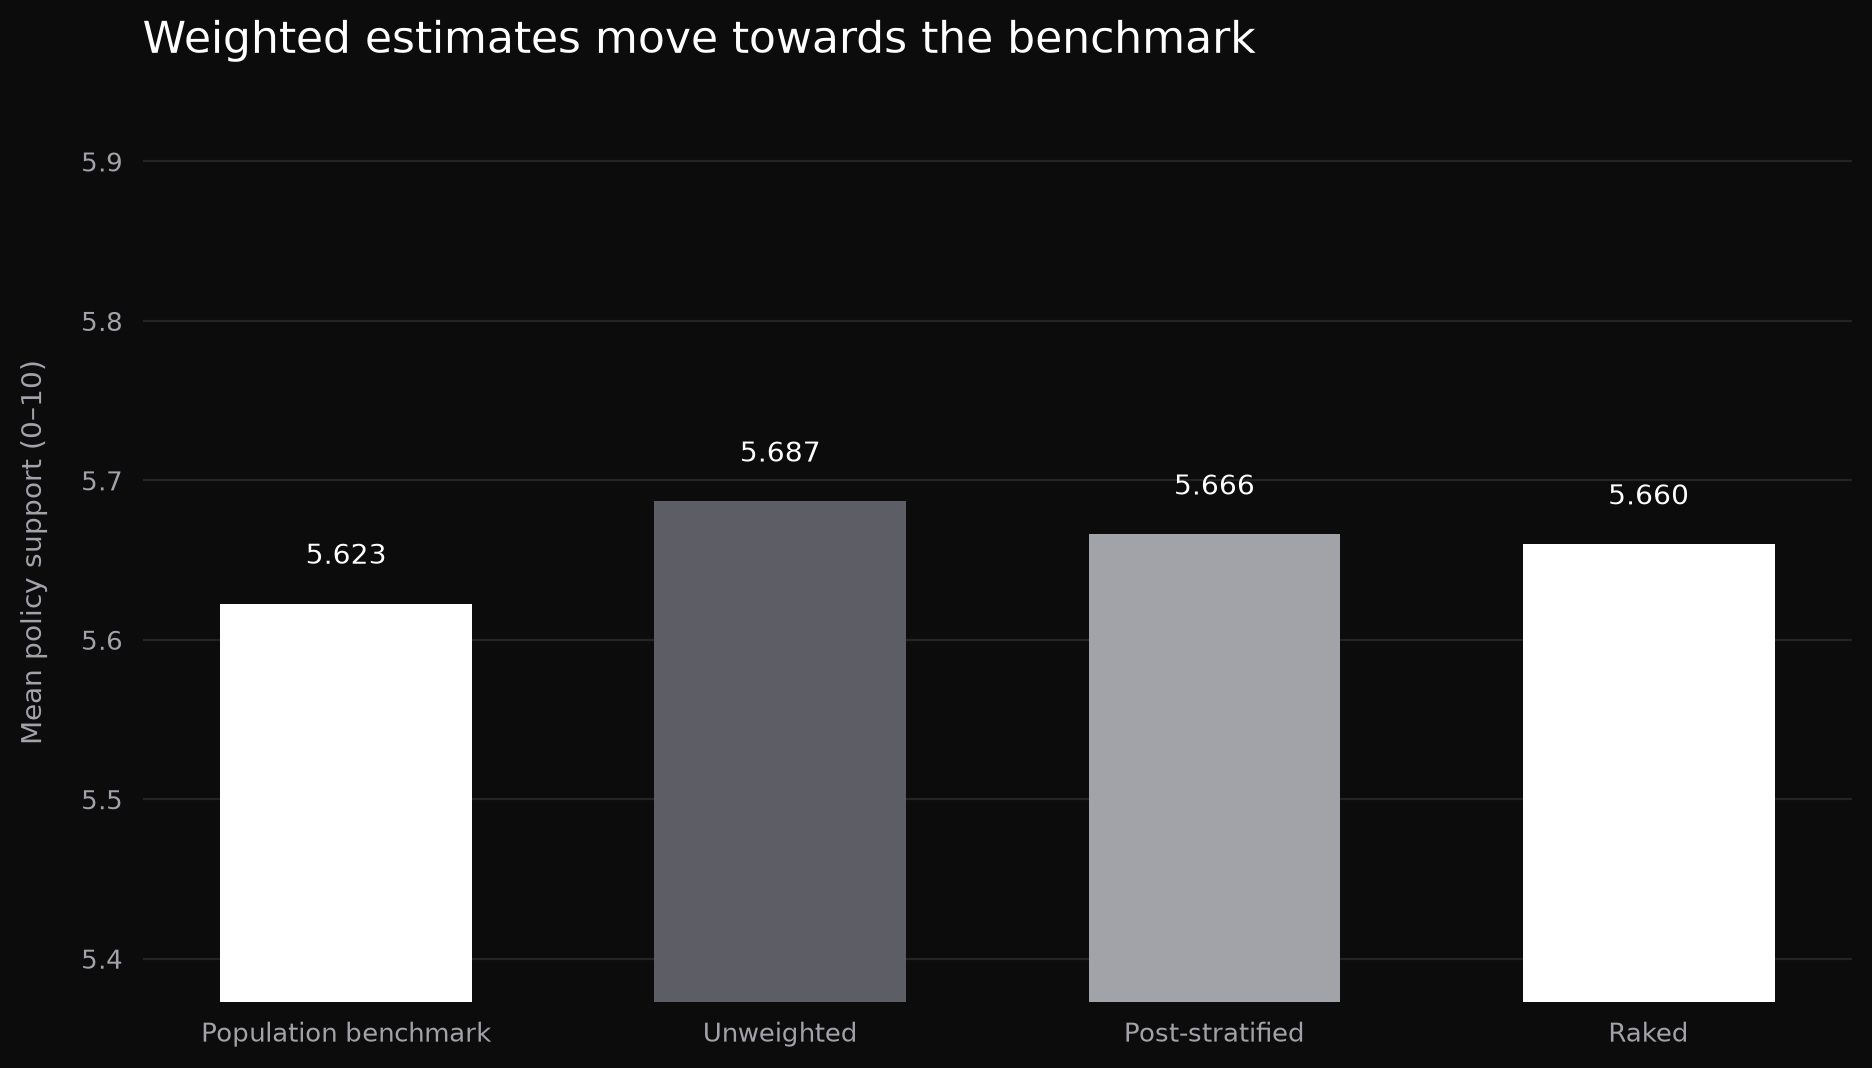
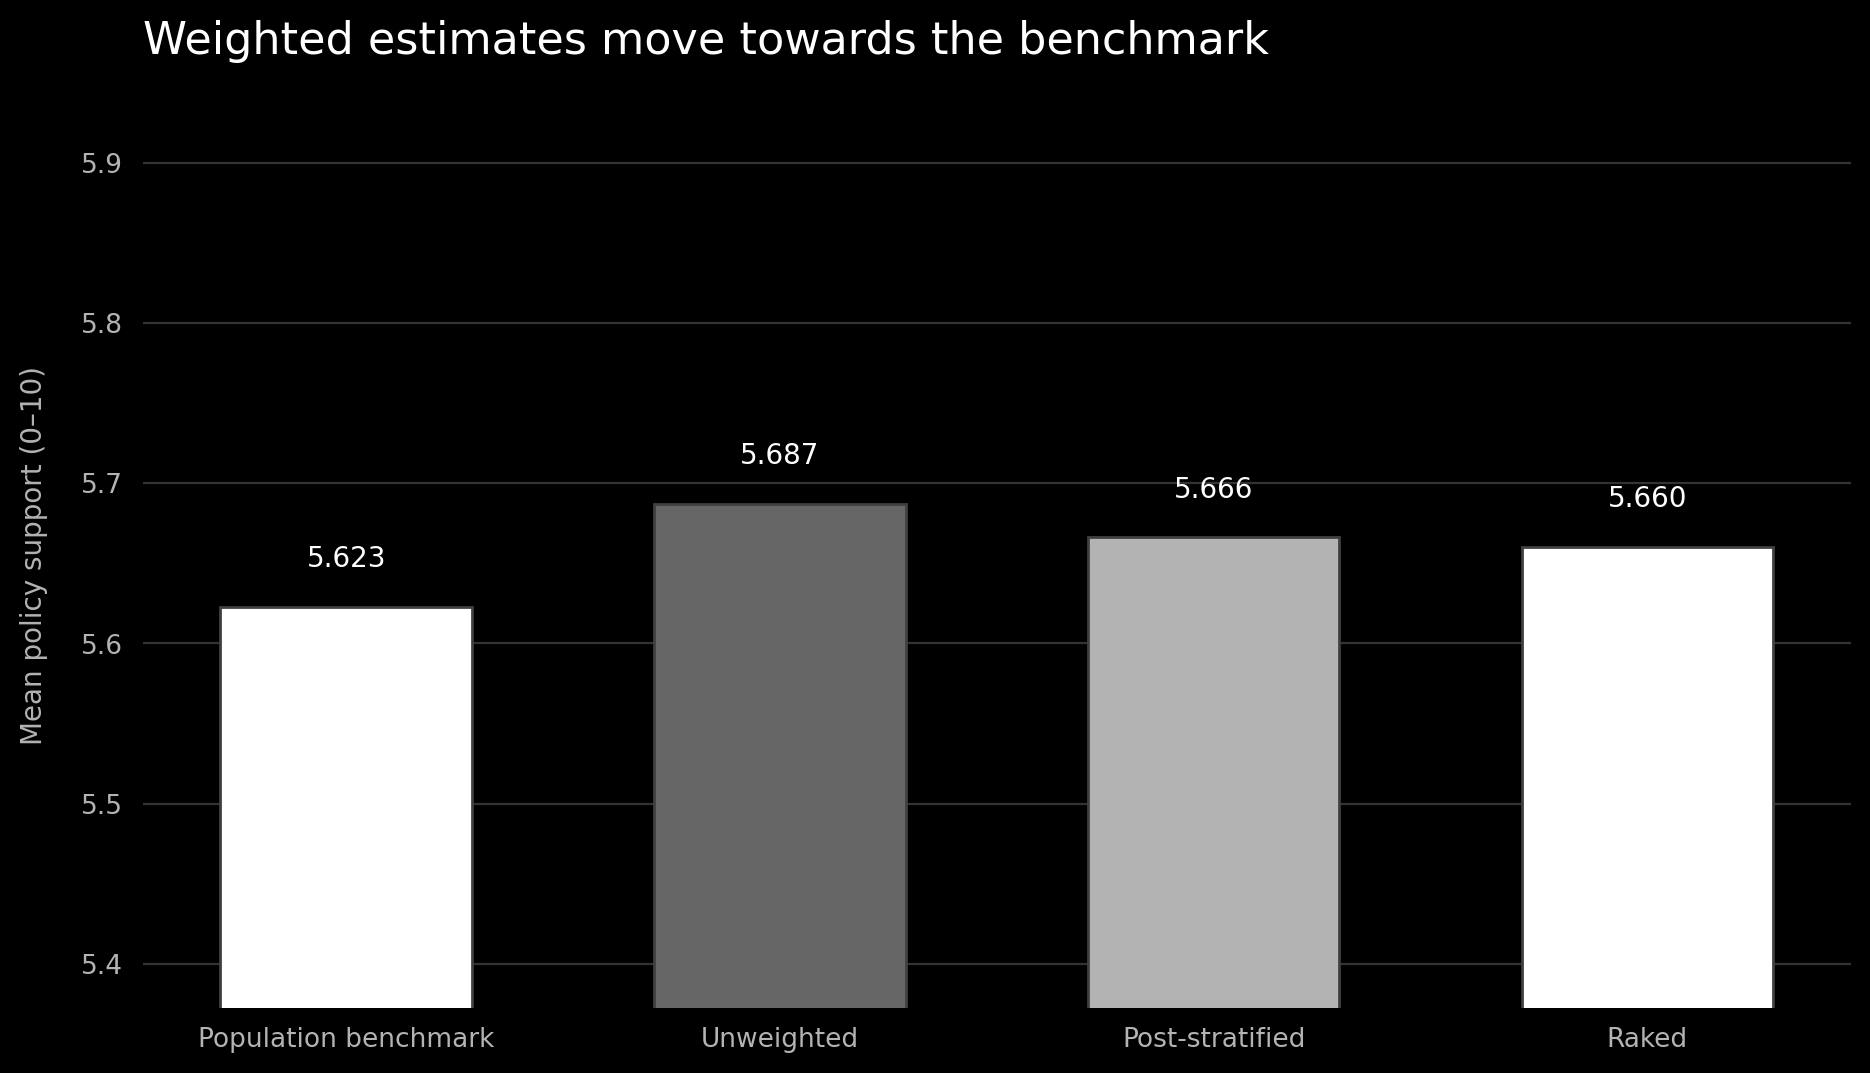
Align chart colors with website palette

diff --git a/analysis_core.py b/analysis_core.py
@@ -16,7 +16,8 @@ POPULATION_SIZE, SAMPLE_SIZE, SEED = 60_000, 2_400, 20260809
 AGE_BANDS = ["18-29", "30-44", "45-59", "60+"]
 REGIONS = ["London", "South", "Midlands", "North", "Scotland/Wales"]
 EDUCATION = ["Degree", "No degree"]
-BG, TEXT, MUTED, LINE, BAR, ACCENT = "#0C0C0D", "#FFFFFF", "#A2A2A9", "#313135", "#5D5D65", "#FFFFFF"
+BG, TEXT, MUTED = "#000000", "#FFFFFF", "#B3B3B3"
+LINE, GRID, BAR, ACCENT = "#404040", "#333333", "#666666", "#FFFFFF"
 
 
 def run_git(*args):
@@ -169,7 +170,7 @@ def style(ax, axis="y"):
     ax.figure.patch.set_facecolor(BG); ax.set_facecolor(BG); ax.tick_params(colors=MUTED, labelsize=9.5, length=0, pad=7)
     ax.xaxis.label.set_color(MUTED); ax.yaxis.label.set_color(MUTED); ax.title.set_color(TEXT)
     for spine in ax.spines.values(): spine.set_visible(False)
-    ax.grid(axis=axis, color=LINE, linewidth=.8, alpha=.65); ax.set_axisbelow(True)
+    ax.grid(axis=axis, color=GRID, linewidth=.8); ax.set_axisbelow(True)
 
 
 def create_figures(sample, estimates, composition, diagnostics):
@@ -177,19 +178,19 @@ def create_figures(sample, estimates, composition, diagnostics):
     summary = composition.groupby("variable")[["unweighted_difference_pp", "poststratified_difference_pp", "raked_difference_pp"]].apply(lambda x: x.abs().mean())
     fig, ax = plt.subplots(figsize=(9.6, 5.6)); style(ax)
     x = np.arange(len(summary)); width = .25
-    ax.bar(x-width, summary.unweighted_difference_pp, width, color=BAR, label="Unweighted")
-    ax.bar(x, summary.poststratified_difference_pp, width, color=MUTED, label="Post-stratified")
-    ax.bar(x+width, summary.raked_difference_pp, width, color=ACCENT, label="Raked")
+    ax.bar(x-width, summary.unweighted_difference_pp, width, color=BAR, edgecolor=LINE, label="Unweighted")
+    ax.bar(x, summary.poststratified_difference_pp, width, color=MUTED, edgecolor=LINE, label="Post-stratified")
+    ax.bar(x+width, summary.raked_difference_pp, width, color=ACCENT, edgecolor=LINE, label="Raked")
     ax.set_xticks(x, [v.replace("_", " ").title() for v in summary.index]); ax.set_ylabel("Mean absolute deviation (percentage points)", labelpad=12); ax.set_title("Weighting restores demographic alignment", loc="left", pad=18, fontsize=16, fontweight=400, color=TEXT)
     legend = ax.legend(frameon=False); [t.set_color(MUTED) for t in legend.get_texts()]
     fig.tight_layout(pad=1.6); fig.savefig(FIGURE_DIR / "composition_before_after_weighting.png", dpi=200, facecolor=BG, bbox_inches="tight"); plt.close(fig)
     fig, ax = plt.subplots(figsize=(9.6, 5.6)); style(ax)
-    values = estimates.mean_policy_support; bars = ax.bar(estimates.estimate, values, color=[ACCENT, BAR, MUTED, TEXT], width=.58)
+    values = estimates.mean_policy_support; bars = ax.bar(estimates.estimate, values, color=[ACCENT, BAR, MUTED, TEXT], edgecolor=LINE, width=.58)
     ax.set_ylim(values.min()-.25, values.max()+.25); ax.set_ylabel("Mean policy support (0–10)", labelpad=12); ax.set_title("Weighted estimates move towards the benchmark", loc="left", pad=18, fontsize=16, fontweight=400, color=TEXT)
     for bar, value in zip(bars, values): ax.text(bar.get_x()+bar.get_width()/2, value+.025, f"{value:.3f}", ha="center", color=TEXT)
     fig.tight_layout(pad=1.6); fig.savefig(FIGURE_DIR / "weighted_unweighted_estimates.png", dpi=200, facecolor=BG, bbox_inches="tight"); plt.close(fig)
     fig, ax = plt.subplots(figsize=(9.6, 5.6)); style(ax, "y")
-    bins = np.linspace(.2, 4, 24); ax.hist(sample.poststrat_weight, bins=bins, color=BAR, alpha=.85, label="Post-stratified"); ax.hist(sample.raked_weight, bins=bins, color=ACCENT, alpha=.55, label="Raked")
+    bins = np.linspace(.2, 4, 24); ax.hist(sample.poststrat_weight, bins=bins, color=BAR, edgecolor=LINE, label="Post-stratified"); ax.hist(sample.raked_weight, bins=bins, histtype="step", color=ACCENT, linewidth=2, label="Raked")
     ax.axvline(1, color=MUTED, linewidth=1); ax.set_xlabel("Normalised survey weight", labelpad=12); ax.set_ylabel("Respondents", labelpad=12); ax.set_title("Weight distributions reveal the precision cost", loc="left", pad=18, fontsize=16, fontweight=400, color=TEXT)
     legend = ax.legend(frameon=False); [t.set_color(MUTED) for t in legend.get_texts()]
     fig.tight_layout(pad=1.6); fig.savefig(FIGURE_DIR / "weight_distributions.png", dpi=200, facecolor=BG, bbox_inches="tight"); plt.close(fig)
